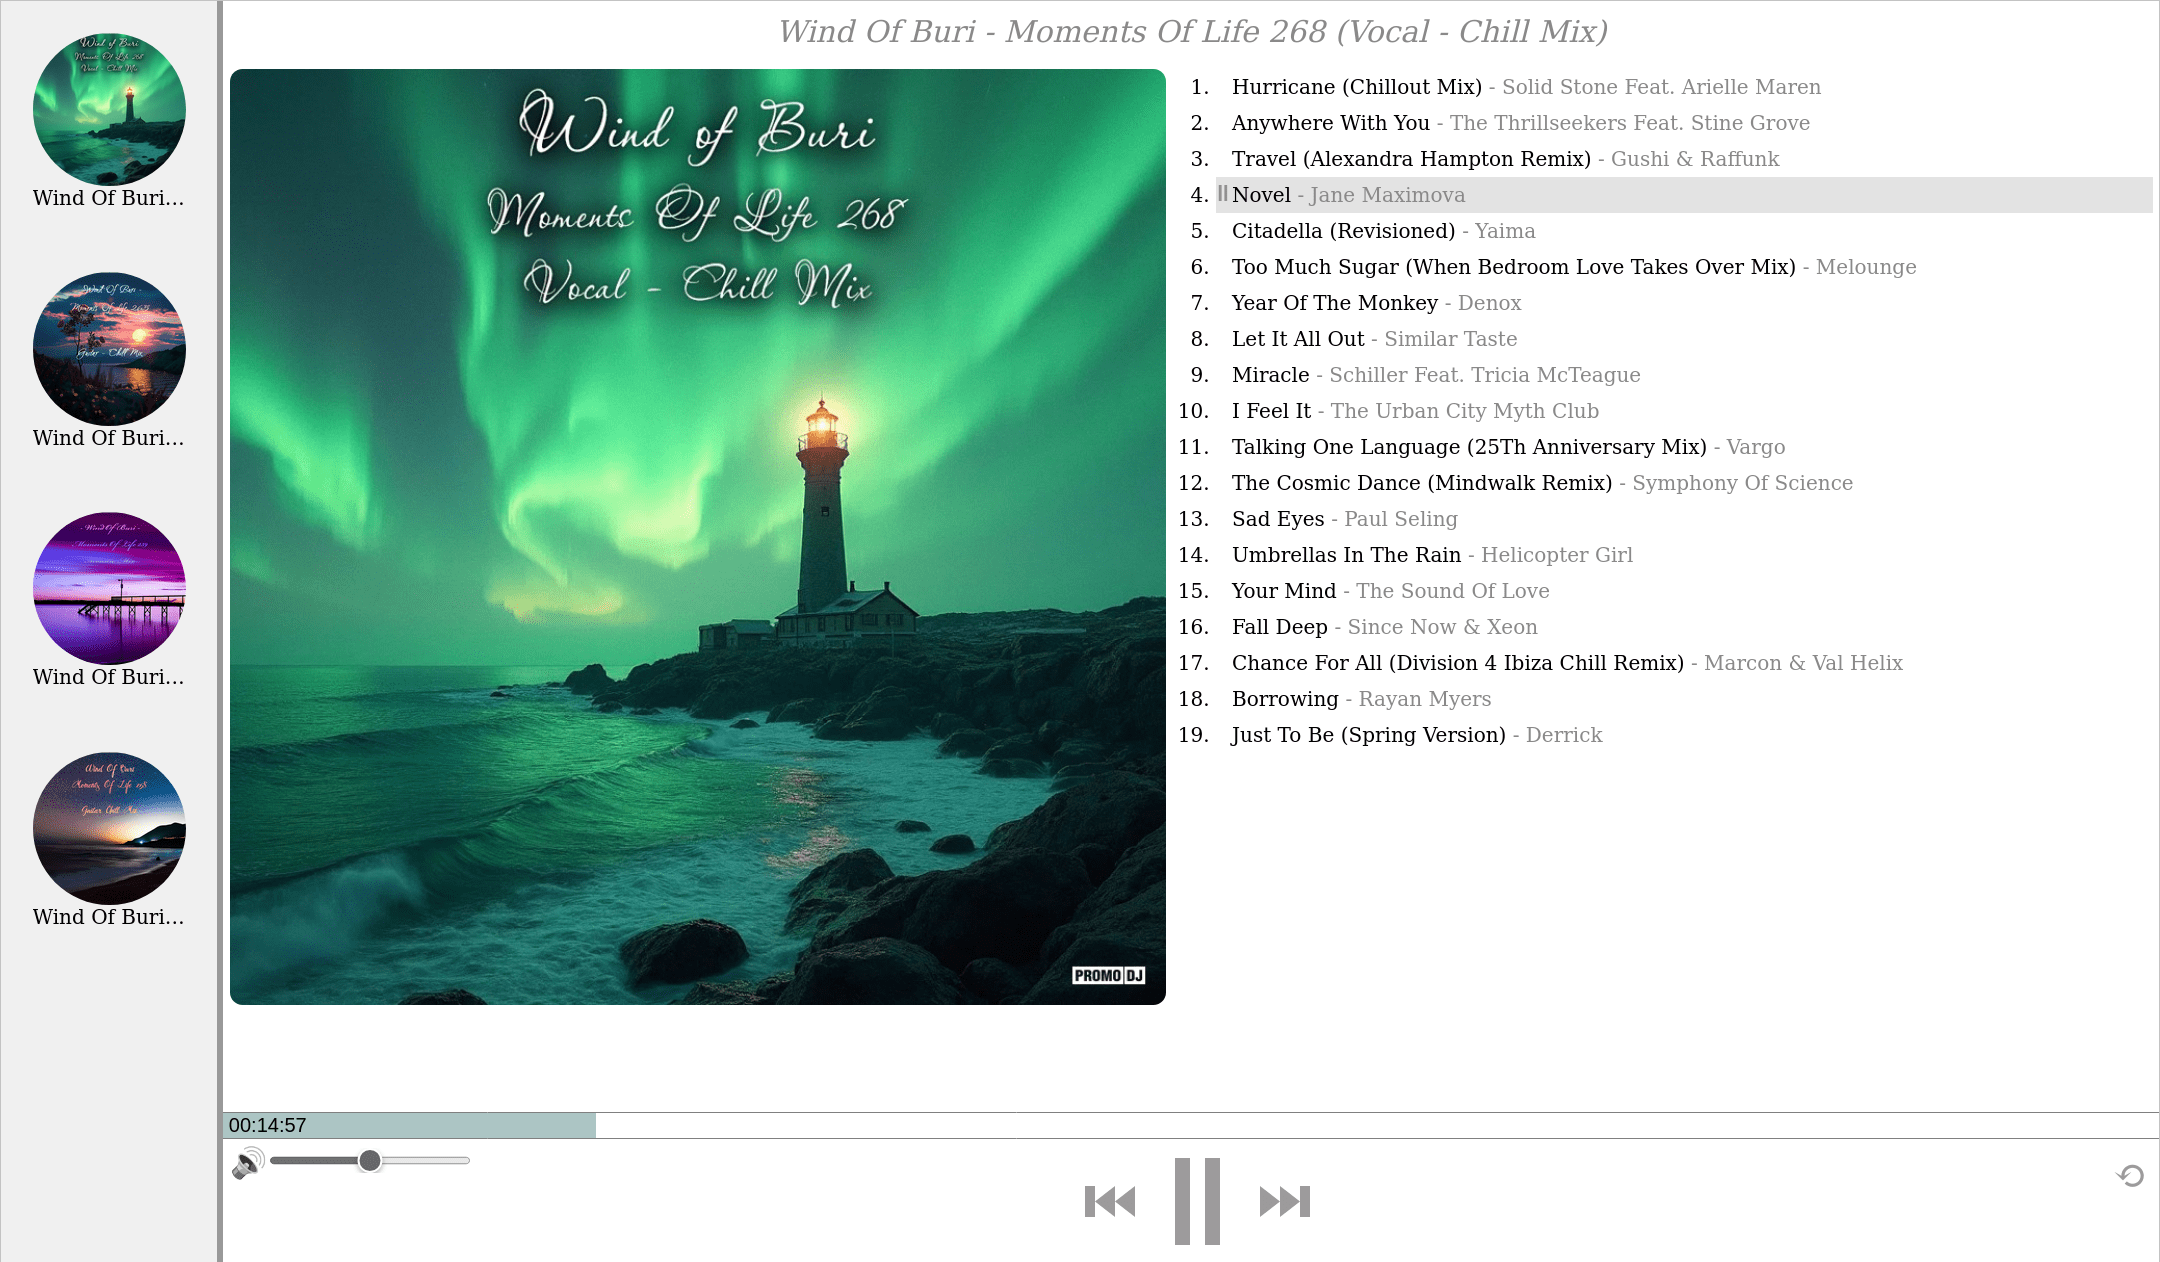
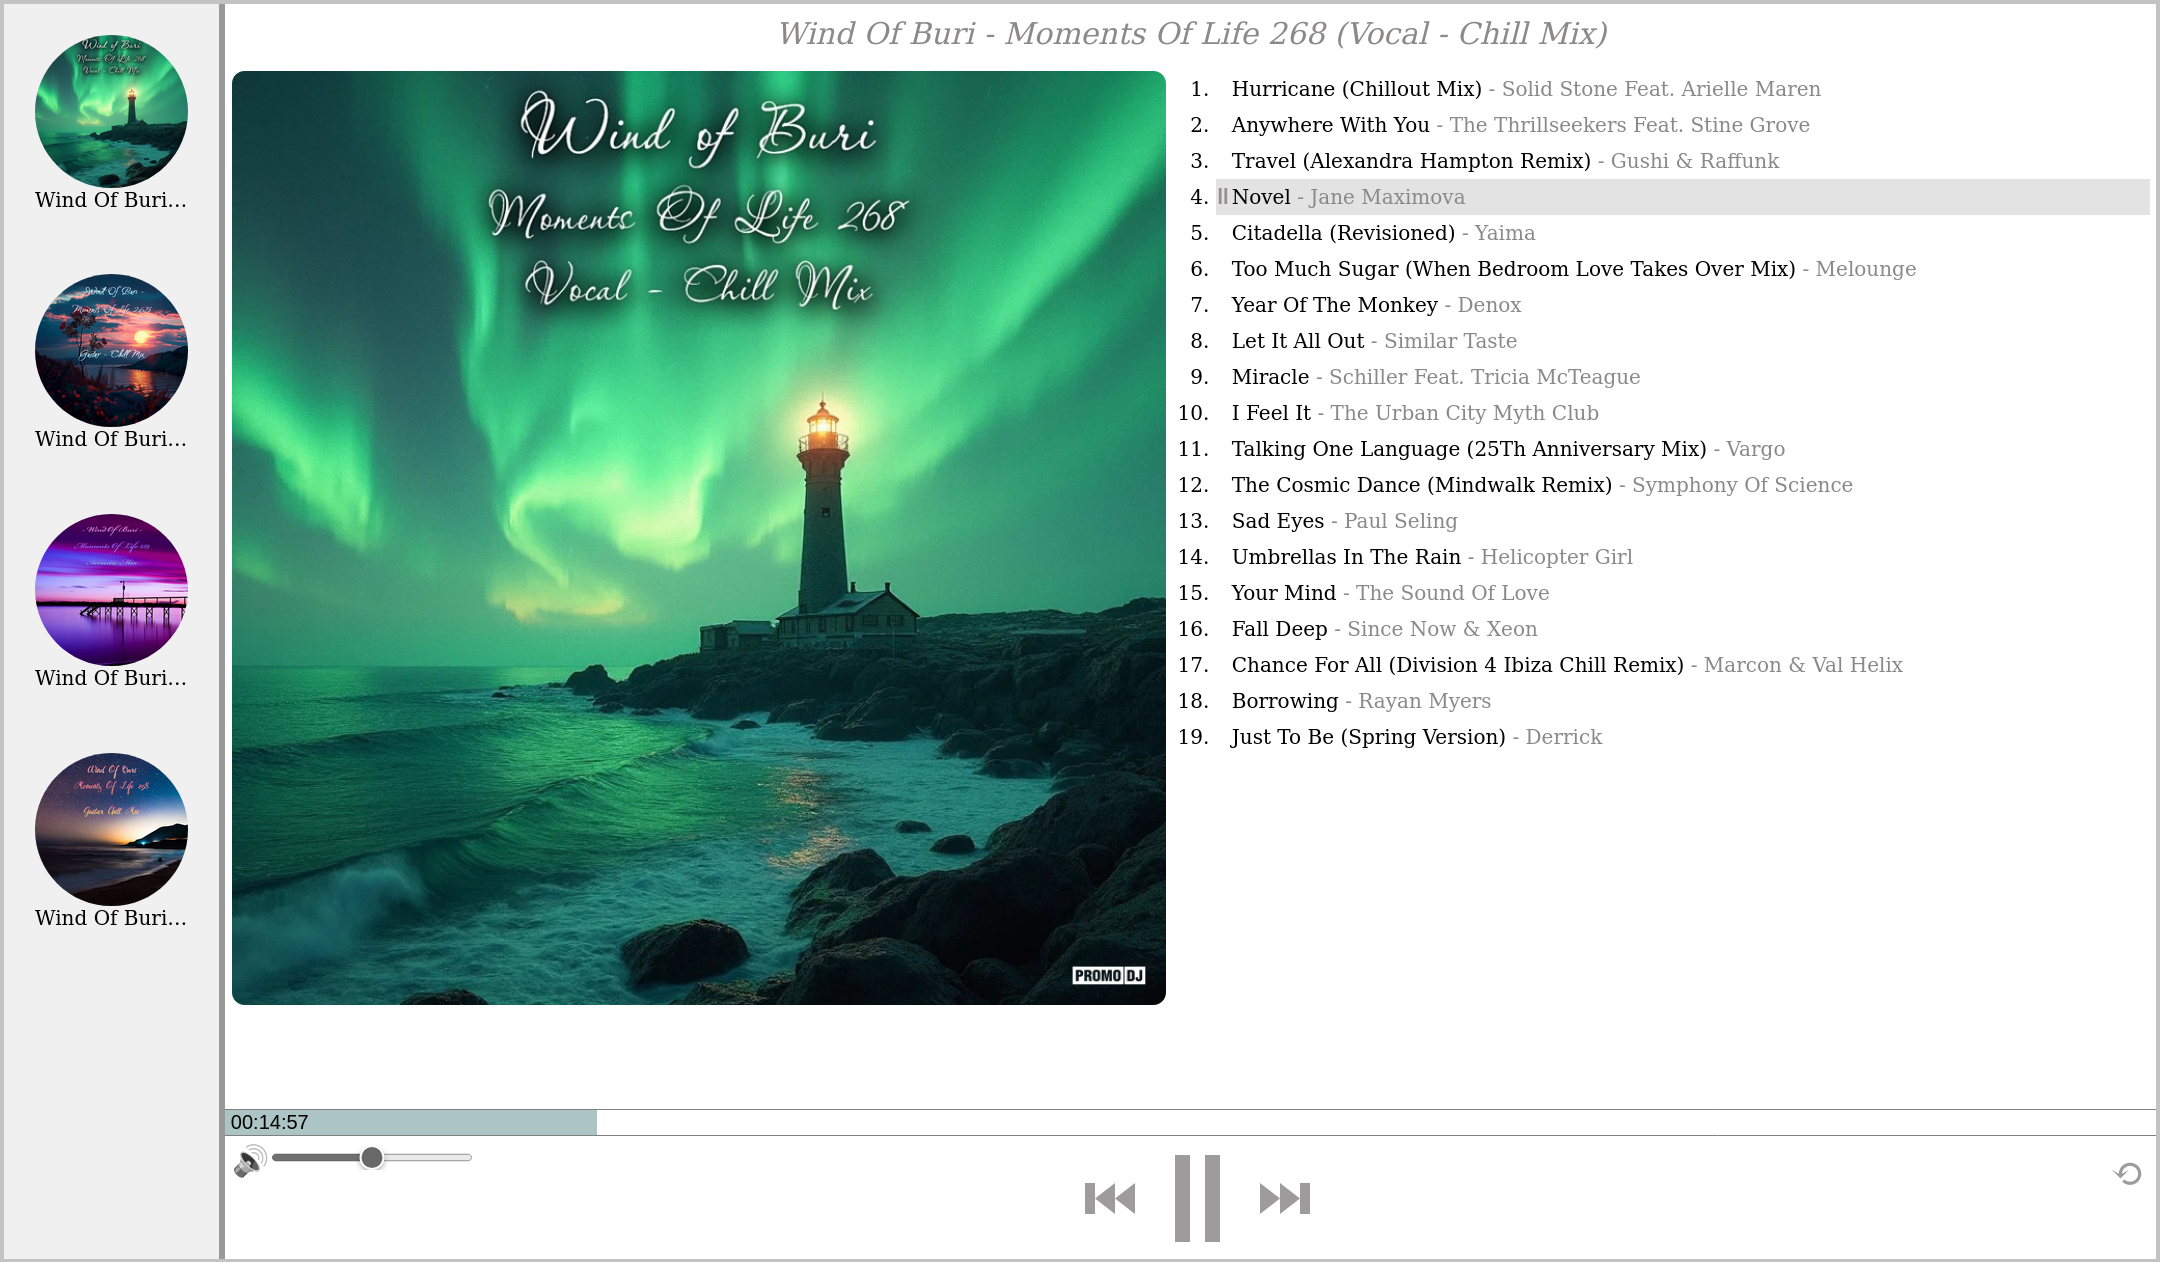
replace screenshot

diff --git a/README.md b/README.md
@@ -2,9 +2,6 @@
 
 ## 🖼 Screenshot
 ![Screenshot](./assets/screenshot.png)
-![Screenshot](./assets/screenshot-2.png)
-![Screenshot](./assets/screenshot-3.png)
-![Screenshot](./assets/screenshot-4.png)
 
 
 ## 🔗 [▶ Live demo](https://5en5e.github.io/promodj-player/)
